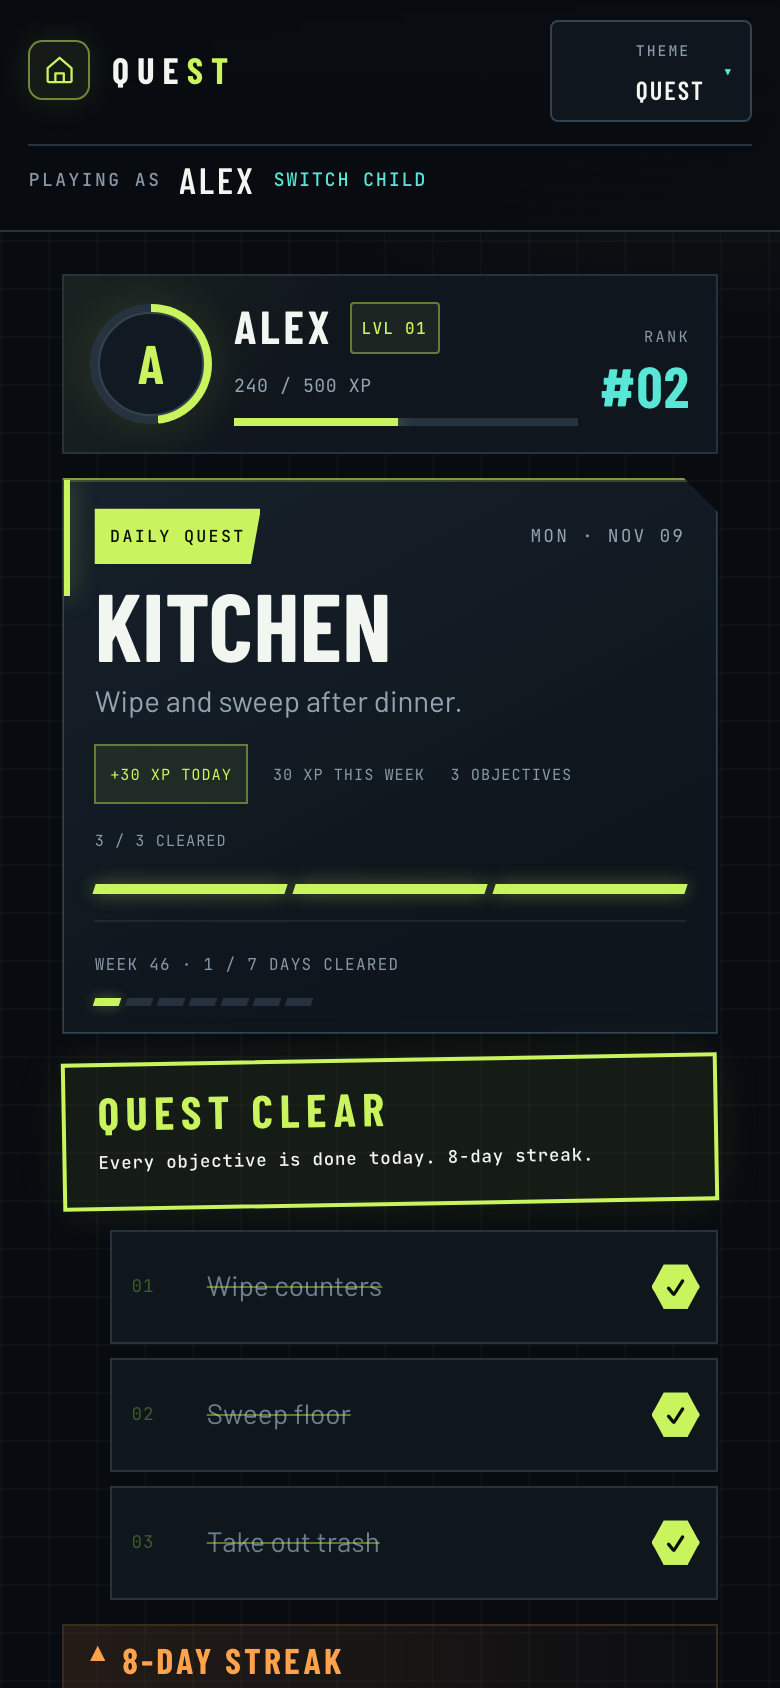
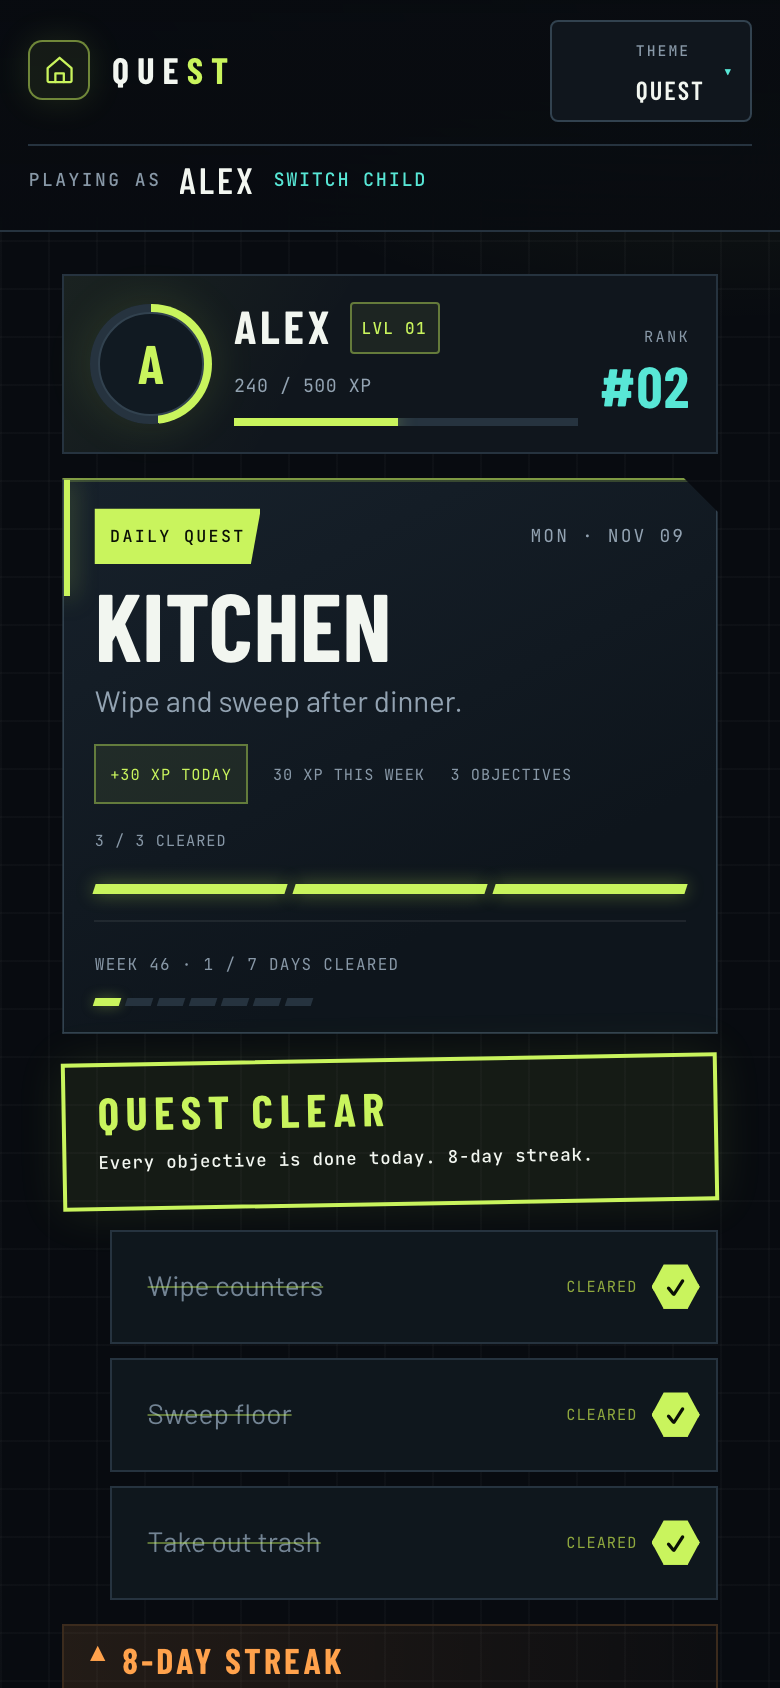
Improve Quest status contrast and mobile labels

diff --git a/frontend/src/styles.css b/frontend/src/styles.css
@@ -2190,7 +2190,7 @@ body[data-theme="quest"] {
 }
 
 .quest-objective.cleared .quest-objective-checkbox > span:last-child {
-  color: #6f7f8d;
+  color: #738494;
   text-decoration: line-through;
   text-decoration-color: rgba(201, 244, 93, 0.42);
 }
@@ -2546,12 +2546,12 @@ body[data-theme="quest"] {
 }
 
 @media (max-width: 390px) {
-  .quest-objective-state {
-    display: none;
+  .quest-objective {
+    grid-template-columns: minmax(0, 1fr) auto 1.4rem;
   }
 
-  .quest-objective {
-    grid-template-columns: 1.4rem minmax(0, 1fr) 1.4rem;
+  .quest-objective-index {
+    display: none;
   }
 
   .quest-meta {

diff --git a/frontend/e2e/theme.spec.ts b/frontend/e2e/theme.spec.ts
@@ -328,6 +328,9 @@ test.describe.serial("theme persistence and selection flow", () => {
           .getByRole("list", { name: "Today's checklist" })
           .getByRole("checkbox"),
       ).toHaveCount(6);
+      await expect(
+        page.getByText("CLEARED", { exact: true }).first(),
+      ).toBeVisible();
       const overflow = await page.evaluate(
         () => document.documentElement.scrollWidth - window.innerWidth,
       );
